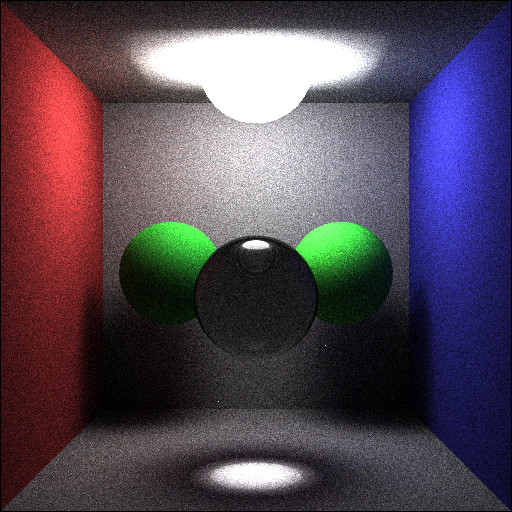
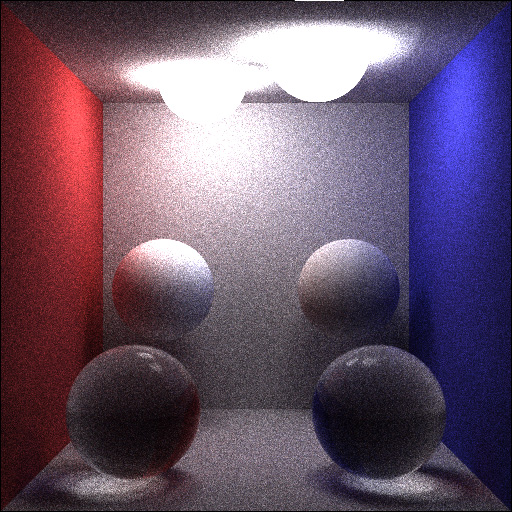
new scene

diff --git a/src/Algorithms.cpp b/src/Algorithms.cpp
@@ -18,8 +18,7 @@ Algorithms::~Algorithms() {
 // Constants
 const glm::vec3 BG_COLOR = glm::vec3(0.0f); // Background color
 const int nShadowRays = 1; // Shadow rays
-const int nIndirectRays = 1;
-const int maxDepth = 3;
+const int maxDepth = 5;
 
 
 /************************************************************
@@ -127,39 +126,36 @@ glm::vec3 Algorithms::IndirectIllumination(Intersection &intersection, Scene *sc
 	//float absorption = 0.5f;
 	glm::vec3 c = intersection.shape->GetColor(intersection.position);
 	glm::vec3 intersectionNormal = intersection.shape->GetNormal(intersection.position);
-
 	float absorption = c.x>c.y && c.x>c.z ? c.x : c.y>c.z ? c.y : c.z;
-	for(int i = 0; i < nIndirectRays; i++) {
-		if(absorption > (float)rand()/RAND_MAX && intersection.ray->depth < maxDepth) {
-			Ray newRay;
-			newRay.origin = intersection.position;
+	if(absorption > (float)rand()/RAND_MAX && intersection.ray->depth < maxDepth) {
+		Ray newRay;
+		newRay.origin = intersection.position;
 
-			// // Uniform sampling of the hemisphere.
-			// newRay.direction = CalcRandomUniformRay(intersectionNormal);
-			// Intersection newIntersection = Trace(newRay, scene);
-			// if(newIntersection.shape) {
-			// 	float newRayCos = std::max(0.0f, glm::dot(intersection.shape->GetNormal(intersection.position), newRay.direction));
-			// 	float pdf = 1.0f / (2.0f*M_PI); //correct probability distribution for hemisphere?
-			// 	float brdf = intersection.shape->OrenNayarBRDF(intersection.ray->direction, newRay.direction, intersection.position);
-			// 	radiance += brdf*newRayCos*Radiance(newRay, scene) / (absorption*pdf);
-			// }
+		// // Uniform sampling of the hemisphere.
+		// newRay.direction = CalcRandomUniformRay(intersectionNormal);
+		// Intersection newIntersection = Trace(newRay, scene);
+		// if(newIntersection.shape) {
+		// 	float newRayCos = std::max(0.0f, glm::dot(intersection.shape->GetNormal(intersection.position), newRay.direction));
+		// 	float pdf = 1.0f / (2.0f*M_PI); //correct probability distribution for hemisphere?
+		// 	float brdf = intersection.shape->OrenNayarBRDF(intersection.ray->direction, newRay.direction, intersection.position);
+		// 	radiance += brdf*newRayCos*Radiance(newRay, scene) / (absorption*pdf);
+		// }
 
-			// Importance sampling
-			newRay.direction = CalcRandomPDFRay(intersectionNormal);
-			Intersection newIntersection = Trace(newRay, scene);
-			if (newIntersection.shape) {
-				//float brdf = intersection.shape->LambertianBRDF();
-				float brdf = intersection.shape->OrenNayarBRDF(intersection.ray->direction, newRay.direction, intersection.position);
+		// Importance sampling
+		newRay.direction = CalcRandomPDFRay(intersectionNormal);
+		Intersection newIntersection = Trace(newRay, scene);
+		if (newIntersection.shape) {
+			//float brdf = intersection.shape->LambertianBRDF();
+			float brdf = intersection.shape->OrenNayarBRDF(intersection.ray->direction, newRay.direction, intersection.position);
 
-				newRay.depth = intersection.ray->depth + 1;
-				newRay.importance = M_PI * brdf * intersection.ray->importance;
-				radiance += (newRay.importance / intersection.ray->importance)*Radiance(newRay, scene)/(absorption);
-				//radiance = (float)(M_PI*brdf)*Radiance(newRay, scene) / (absorption);
-			}
+			newRay.depth = intersection.ray->depth + 1;
+			newRay.importance = M_PI * brdf * intersection.ray->importance;
+			radiance += (newRay.importance / intersection.ray->importance)*Radiance(newRay, scene)/(absorption);
+			//radiance = (float)(M_PI*brdf)*Radiance(newRay, scene) / (absorption);
 		}
 	}
-	
-	return radiance /= nIndirectRays;
+
+	return radiance;
 }
 
 /************************************************************

diff --git a/src/main.cpp b/src/main.cpp
@@ -53,43 +53,44 @@ int main() {
 	sh = new Walls();
 	scene->addObject(sh);
 
+	// Two white spheres
 	sh = new Sphere(0.3f);
-	sh->SetPosition(glm::vec3(0.5f, -0.1f, -0.5f));
+	sh->SetPosition(glm::vec3(-0.55f, -0.2f, -0.55f));
 	sh->SetColor(glm::vec3(1.0f));
 	sh->roughness = 0.0f;
 	scene->addObject(sh);
 
 	sh = new Sphere(0.3f);
-	sh->SetPosition(glm::vec3(-0.5f, -0.1f, -0.5f));
+	sh->SetPosition(glm::vec3(0.55f, -0.2f, -0.55f));
 	sh->SetColor(glm::vec3(1.0f));
 	sh->roughness = 1.0f;
 	scene->addObject(sh);
 
+	// Two glass spheres
 	sh = new Sphere(0.3f);
 	sh->isTrans = true;
-	sh->SetPosition(glm::vec3(0.0f, -0.2f, 0.3f));
+	sh->SetPosition(glm::vec3(-0.55f, -0.7f, 0.55f));
 	scene->addObject(sh);
 
-	//sh = new Sphere(0.2f);
-	//sh->isLight = true;
-	//sh->SetColor(glm::vec3(1.0f, 0.0f, 1.0f));
-	//sh->SetPosition(glm::vec3(0.3, 0.95, 0));
-	//scene->addObject(sh);
-	//scene->addLight(sh);
-
 	sh = new Sphere(0.3f);
+	sh->isTrans = true;
+	sh->SetPosition(glm::vec3(0.55f, -0.7f, 0.55f));
+	scene->addObject(sh);
+
+	// Two lights
+	sh = new Sphere(0.25f);
 	sh->isLight = true;
-	sh->SetColor(glm::vec3(10.0f));
-	sh->SetPosition(glm::vec3(0, 1, 0));
+	sh->SetColor(glm::vec3(6.0f));
+	sh->SetPosition(glm::vec3(-0.3f, 1.0f, -0.3f));
 	scene->addObject(sh);
 	scene->addLight(sh);
 
-/*	sh = new Plane();
+	sh = new Sphere(0.25f);
 	sh->isLight = true;
-	sh->SetColor(glm::vec3(1.0f,1.0f,1.0f));
-	sh->SetPosition(glm::vec3(-0.3, 0.95, 0));
+	sh->SetColor(glm::vec3(6.0f));
+	sh->SetPosition(glm::vec3(0.3f, 1.0f, 0.3f));
 	scene->addObject(sh);
-	scene->addLight(sh);*/
+	scene->addLight(sh);
 
 	Image* img = new Image(imgWidth, imgHeight);
 	Camera* cam = new Camera();

diff --git a/src/Walls.cpp b/src/Walls.cpp
@@ -68,11 +68,6 @@ bool Walls::Intersect(const Ray &ray, float &hitDist) {
     	return false;
     }
 
-    // We don't have a front wall
-    // if(zmin > min) {
-    // 	min = zmin;
-    // }
-
     if(zmax < max) {
     	max = zmax;
     }
@@ -83,7 +78,7 @@ bool Walls::Intersect(const Ray &ray, float &hitDist) {
 }
 
 glm::vec3 Walls::GetColor(glm::vec3 &pos) {
-    glm::vec3 color = glm::vec3(0.8f);
+    glm::vec3 color = glm::vec3(0.75f);
 
     float epsilon = 0.0001;
     if(pos.x < xl + epsilon) {
